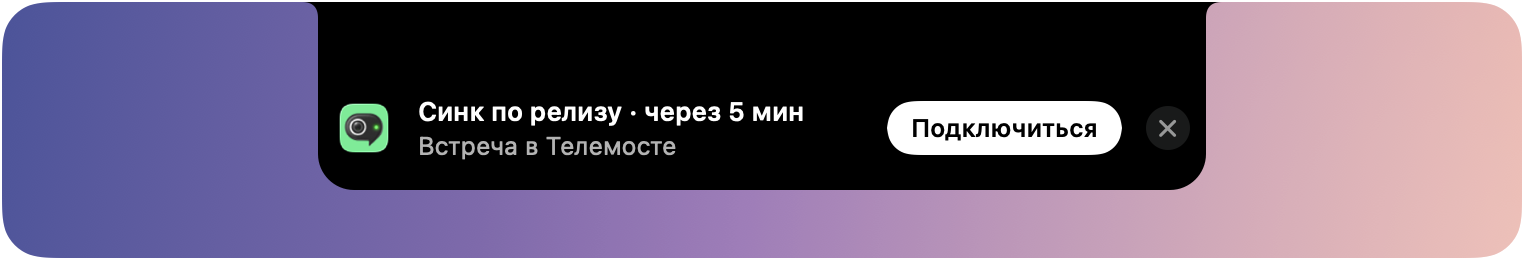
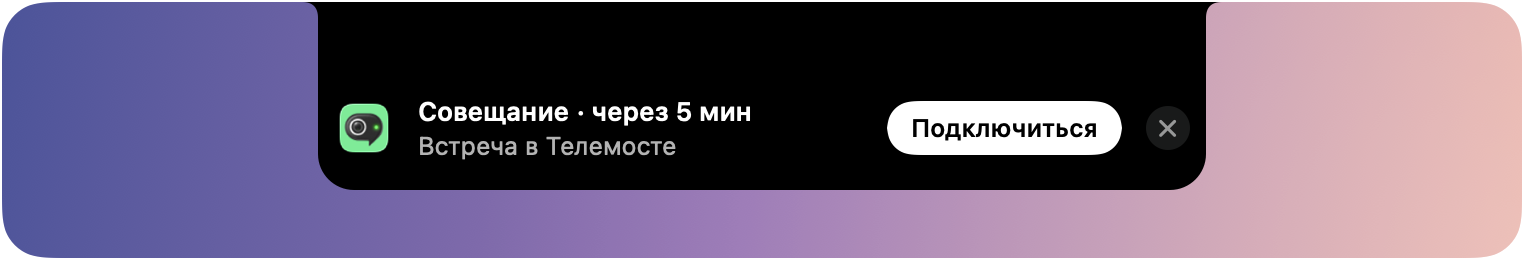
fix: Время напоминании видно целиком, картинка календаря с реальным днём

Changed region(s): [[0.2776, 0.4, 0.5243, 0.4923]]

diff --git a/Sources/MelySnapshots/Snapshots.swift b/Sources/MelySnapshots/Snapshots.swift
@@ -25,7 +25,7 @@ enum Snapshots {
             Snapshot(name: "today", view: AnyView(Desk { calendarAgenda() })),
             Snapshot(name: "music", view: AnyView(Desk { miniPlayer() })),
             Snapshot(name: "reminder", view: AnyView(Desk(height: 128) { peekCard(PeekContent(
-                id: "r", symbol: "video.fill", tint: .green, title: "Синк по релизу",
+                id: "r", symbol: "video.fill", tint: .green, title: "Совещание",
                 subtitle: "Встреча в Телемосте", appBundleId: "ru.yandex.desktop.telemost", actionTitle: "Подключиться",
                 until: Date().addingTimeInterval(4 * 60 + 20))) })),
             Snapshot(name: "update", view: AnyView(Desk(height: 128) { peekCard(PeekContent(
@@ -75,8 +75,8 @@ enum Snapshots {
             Snapshot(name: "PlanUsage_Card", view: AnyView(usageCard())),
             Snapshot(name: "Island_Expanded_NoNotch", view: AnyView(expandedNoNotch())),
             Snapshot(name: "MeetingReminder", view: AnyView(peekCard(PeekContent(
-                id: "r", symbol: "video.fill", tint: .green, title: "Синк по релизу",
-                subtitle: "Встреча в Телемост", appBundleId: "ru.yandex.desktop.telemost", actionTitle: "Подключиться",
+                id: "r", symbol: "video.fill", tint: .green, title: "Совещание",
+                subtitle: "Встреча в Телемосте", appBundleId: "ru.yandex.desktop.telemost", actionTitle: "Подключиться",
                 until: Date().addingTimeInterval(4 * 60 + 20))))),
             Snapshot(name: "MeetingReminder_Running", view: AnyView(peekCard(PeekContent(
                 id: "r2", symbol: "video.fill", tint: .green, title: "Груминг бэклога",
@@ -476,28 +476,29 @@ enum Snapshots {
             .background(backdrop)
     }
 
-    /// The "Сегодня" tab mid-morning: an all-day event, one past, one running with a call.
+    /// The "Сегодня" tab at 11:49 on a working day: on duty all day, the daily done, the
+    /// grooming running, a meeting soon, lunch after. A fixed clock: the same picture every run.
     @MainActor private static func calendarAgenda() -> some View {
-        let now = Date()
-        func ev(_ id: String, _ title: String, _ from: Double, _ to: Double, allDay: Bool = false,
+        let day = Calendar.current.startOfDay(for: Date())
+        func at(_ hour: Int, _ minute: Int = 0) -> Date { day.addingTimeInterval(TimeInterval(hour * 3600 + minute * 60)) }
+        func ev(_ id: String, _ title: String, _ from: Date, _ to: Date, allDay: Bool = false,
                 location: String? = nil, meeting: MeetingLink? = nil) -> CalendarEvent {
-            CalendarEvent(id: id, title: title, start: now.addingTimeInterval(from * 60), end: now.addingTimeInterval(to * 60),
-                          isAllDay: allDay, location: location, meeting: meeting)
+            CalendarEvent(id: id, title: title, start: from, end: to, isAllDay: allDay, location: location, meeting: meeting)
         }
         let telemost = MeetingLink(service: .telemost, url: URL(string: "https://telemost.yandex.ru/j/5512")!)
         let zoom = MeetingLink(service: .zoom, url: URL(string: "https://zoom.us/j/831")!)
         let agenda = Agenda(today: [
-            ev("d", "Дежурство по релизу", -600, 800, allDay: true),
-            ev("a", "Стендап", -120, -105, meeting: telemost),
-            ev("b", "Синк по корзине", -10, 35, meeting: telemost),
-            ev("c", "Интервью фронтенд", 12, 72, meeting: zoom),
-            ev("e", "Обед", 120, 180, location: "Кафе на первом"),
+            ev("d", "Дежурство по релизу", day, at(24), allDay: true),
+            ev("a", "Дейли", at(10), at(10, 15), meeting: telemost),
+            ev("b", "Груминг бэклога", at(11), at(12), meeting: zoom),
+            ev("c", "Совещание", at(12), at(12, 30), meeting: telemost),
+            ev("e", "Обед", at(13), at(14), location: "Кафе на первом"),
         ], tomorrow: [])
         let tabs = IslandTabs()
         tabs.selected = .today
         return expandedApp(.today) {
             ClaudeOverview(store: SessionStore(), queue: ApprovalQueue(), tabs: tabs,
-                           today: AnyView(AgendaView(agenda: agenda) { _ in }),
+                           today: AnyView(AgendaView(agenda: agenda, now: at(11, 49)) { _ in }),
                            open: { _ in }, decide: { _, _ in }, answerInTerminal: { _ in })
         }
     }

diff --git a/Sources/MelyUI/Island/PeekView.swift b/Sources/MelyUI/Island/PeekView.swift
@@ -13,6 +13,8 @@ struct PeekView: View {
                 title
                 Text(content.subtitle).font(.system(size: MelyType.body)).foregroundStyle(.white.opacity(MelyInk.strong)).lineLimit(2)
             }
+            // Ahead of the spacer: the title takes the room it needs before the gap does.
+            .layoutPriority(1)
             .layoutProbe("peek.text", inside: "peek", checksText: true)
             Spacer(minLength: 0)
             if let action = content.actionTitle {
@@ -41,12 +43,16 @@ struct PeekView: View {
         .frame(height: IslandPresentation.peekBodyHeight)
     }
 
-    /// The title; a reminder's counts down to its meeting.
+    /// The title; a reminder's counts down to its meeting. A long title gives way: the
+    /// countdown always shows whole.
     @ViewBuilder private var title: some View {
         if let until = content.until {
             TimelineView(.periodic(from: .now, by: 10)) { context in
-                Text(content.title + " · " + MeetingCountdown.text(until: until, now: context.date))
-                    .font(.system(size: MelyType.title, weight: .semibold)).lineLimit(1)
+                HStack(spacing: 0) {
+                    Text(content.title).lineLimit(1)
+                    Text(" · " + MeetingCountdown.text(until: until, now: context.date)).lineLimit(1).fixedSize()
+                }
+                .font(.system(size: MelyType.title, weight: .semibold))
             }
         } else {
             Text(content.title).font(.system(size: MelyType.title, weight: .semibold)).lineLimit(1)

diff --git a/Sources/MelyUI/Calendar/AgendaViews.swift b/Sources/MelyUI/Calendar/AgendaViews.swift
@@ -8,11 +8,14 @@ public struct AgendaView: View {
     let isOn: Bool
     let enable: () -> Void
     let join: (CalendarEvent) -> Void
+    /// A fixed clock (the README picture); nil: the real one.
+    let now: Date?
 
-    public init(agenda: Agenda?, isOn: Bool = true, enable: @escaping () -> Void = {},
+    public init(agenda: Agenda?, isOn: Bool = true, now: Date? = nil, enable: @escaping () -> Void = {},
                 join: @escaping (CalendarEvent) -> Void) {
         self.agenda = agenda
         self.isOn = isOn
+        self.now = now
         self.enable = enable
         self.join = join
     }
@@ -52,7 +55,7 @@ public struct AgendaView: View {
                                 .layoutProbe("agenda.allday.\(event.id)", inside: "agenda.list")
                             }
                             ForEach(agenda.timed) { event in
-                                EventRow(event: event, now: context.date, join: { join(event) })
+                                EventRow(event: event, now: now ?? context.date, join: { join(event) })
                                     .layoutProbe("agenda.event.\(event.id)", inside: "agenda.list")
                             }
                         }
